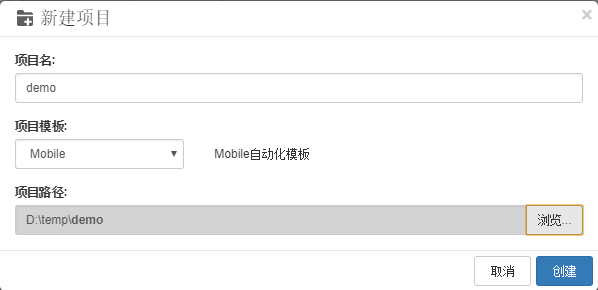
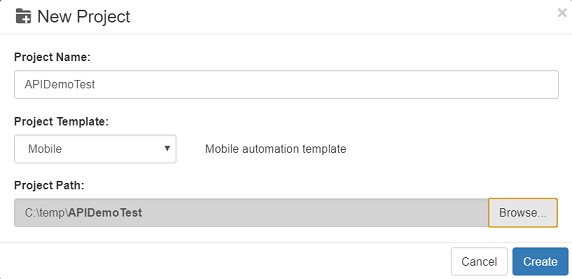
translate

diff --git a/walk/5_android.md b/walk/5_android.md
@@ -1,57 +1,54 @@
 ## Walkthrough: Create Android Automation Test
 
-### 目标
+### Goal
 
-* 掌握如何定位手机应用控件
-* 掌握Android手机自动化测试流程
+* Understand how to locate mobile app controls
+* Master Android mobile phone automated testing process
 
-### 环境
-* 开发环境：Windows，Android 模拟器或手机，appium
-* 被测应用：Appium自带的应用API Demo
+### Prerequisites
+* Dependencies: 
+    * Android SDK
+    * Android phone or emulator
+    * Appium
+* Application Under Test (AUT): API Demo shipped with Appium
 
-### 前提条件
-* 配置Android SDK环境
-* 安装appium
-* 准备Android手机或者模拟器
+### Steps
 
-### 操作步骤
+#### New Project
 
-#### 新建项目
-
-打开CukeTest，【文件】--【新建项目】
-项目模板选择【mobile】，分别输入【项目名】和【项目路径】，点击【创建】。
+Open CukeTest, "File"--"New Project"
+Choose "Mobile", input project name "APIDemoTest" and select project path, then click "Create"。
 
 ![](assets_android/newproject.png)
 
-CukeTest会自动创建一个基于手机端自动化测试脚本模板，在项目目录下执行 `npm install` 安装项目依赖。
+CukeTest will automatically create a automation script project based on mobile template. Please run the `npm install` command to install the project dependencies in the project directory.
 
-#### 准备被测应用
+#### Prepare AUT
 
-测试客户端:[https://github.com/appium/sample-code/tree/master/sample-code/apps/ApiDemos/bin](https://github.com/appium/sample-code/tree/master/sample-code/apps/ApiDemos/bin)
-下载并安装到自己的手机。
+The app to be tested can be downloaded from: [https://github.com/appium/sample-code/tree/master/sample-code/apps/ApiDemos/bin](https://github.com/appium/sample-code/tree/master/sample-code/apps/ApiDemos/bin), try to download it and install on your own mobile device.
 
 
-#### 编辑用例
+#### Create Test Scenarios
 
-打开文件，在【可视】界面中输入如下内容</span></span>
+Open the file and enter the following in the "Visual" interface:
 
 ![](assets_android/feature.png)
 
-对应的【文本】视图内容为：
+The corresponding "text" view content is: 
 
-```javascript
-# language:  zh-CN
-功能: appim demo
-使用CukeTest以BDD的方式来做手机端的自动化测试样例。
- 
-  场景: API Demo 页面跳转
-    假如点击App跳转到App页面
-    当在App页面中点击Action Bar
-    那么页面应该跳转到Action Bar页面,页面中应该包含"Action Bar Mechanics"
+```gherkin
+Feature: appim demo
+Sample for using CukeTest to do BDD's automated test on the mobile phone.
+
+  Scenario: API Demo Page Transition
+    Given If you click on the app to jump to the App page
+    When clicking Action Bar on the App page
+    Then the page should jump to the Action Bar page, which should contain "Action Bar Mechanics"
 ```
 
-#### 完善自动化测试代码
-1. 获取设备串号
+#### Implement Test Automation Code
+
+1. Get device serial number:
 
   ```powershell
   adb devices
@@ -60,32 +57,35 @@ CukeTest会自动创建一个基于手机端自动化测试脚本模板，在项
   Y15QKCPH278J4   device
   ```
   
-2. 获取应用pacakage和启动的activity
-  命令行输入 `adb logcat | findstr START `  手动打开 __Demo API__ 应用，从日志中获取。
+2. Get the app package and start the activity
+  Run command `adb logcat | findstr START `, open __Demo API__ app manually, read the info similiar to the following from the log:
+
   ```basic
-  .....
+
+  ...
   [android.intent.category.LAUNCHER] flg=0x10200000 cmp=io.appium.android.apis/.ApiDemos bnds=[16,640][188,832] (has extras)} from uid
 10013 from pid 1943 on display 0 from pid 1943
-  .....
+  ...
+
   ```
 
-  取到app的package 和 activity 为 io.appium.android.apis/.ApiDemos
+  get the package/activity info, which is io.appium.android.apis/.ApiDemos
 
-3. 修改driver定义代码
+3. Modify driver definition code
 
-  打开 `support\get_driver.js` ,分别修改 `devicesName`,appPackage, appActivity的内容。修改完成后为:
+  Open file `support\get_driver.js`, modify the content of `devicesName`, appPackage, appActivity. the content of it is:
   
   ```javascript
   const webdriverio = require('webdriverio');
 
-  //设置被测应用参数
+  //Set the parameters for testing the application
   let options = {
     desiredCapabilities: {
         platformName: "Android",
-        deviceName: "Y15QKCPH278J4", //设备序列串号 
-        platformVersion: "5.1", //系统平台版本
-        appPackage: "io.appium.android.apis", //package 名字
-        appActivity: ".ApiDemos", //启动activity 名字
+        deviceName: "Y15QKCPH278J4", //Serial#
+        platformVersion: "5.1", //Android version
+        appPackage: "io.appium.android.apis", //package name
+        appActivity: ".ApiDemos", //activity name
         resetKeyboard: true,  
         noReset: true,
         unicodeKeyboard: true
@@ -94,7 +94,7 @@ CukeTest会自动创建一个基于手机端自动化测试脚本模板，在项
     port: 4723
   }
 
-  //根据参数配置创建WebDriverIO实例;
+  //Create a WebDriverIO instance based on the parameter configuration;
   function createDriver() {
     const client = webdriverio.remote(options);
     return client;
@@ -103,17 +103,16 @@ CukeTest会自动创建一个基于手机端自动化测试脚本模板，在项
   exports.driver = createDriver();
   ```
 
-4. 自动化测试代码
-  打开`step_definations\definitions1.js `文件，点击 step 后面的灰色按钮，生成自动化脚本样例。
+4. Test automation code
+  Open `features/feature1.feature` file, click the gray button on each step to generate a sample automation script.
 
   ![](assets_android/script.png)
 
-  使用uiautomatorviewer 工具定位到客户端元素
+  Use the *uiautomatorviewer* tool to navigate to client elements
 
   ![](assets_android/uiautomatorviewer.png)
 
-
-  根据元素定位信息，完成对相关操作的代码实现"step\_definitons/definitoins.js":
+  Implemnt step defintion functions defined in "step\_definitons/definitoins.js":
 
   ```javascript
   const { Given, When, Then } = require('cucumber')
@@ -121,27 +120,27 @@ CukeTest会自动创建一个基于手机端自动化测试脚本模板，在项
   const { driver } = require('../support/get_driver');
   const { $ } = require('webdriverio')
 
-  //// 你的步骤定义 /////
+  //// Your step definition /////
 
-  Given("点击App跳转到App页面", async function () {
-      await driver.click('android=new UiSelector().text("App").index(2)')
+  Given("If you click on the app to jump to the App page", async function () {
+    await driver.click('android=new UiSelector().text("App").index(2)')
   });
 
-  When("在App页面中点击Action Bar", async function () {
-      await driver.click('android=new UiSelector().text("Action Bar").index(0)')
+  When("clicking Action Bar on the App page", async function () {
+      await driver.click('android=new UiSelector().text("Action Bar").index(0)');
   });
 
-  Then("页面应该跳转到Action Bar页面,页面中应该包含{string}", async function (arg1) {
-
-      let texts =  await driver.getText('android=new UiSelector().textStartsWith("Action")')
-      console.log(texts)
-      return assert.ok(texts.includes(text))
-});
+  Then("the page should jump to the Action Bar page, which should contain {string}", async function (arg1) {
+    let texts =  await driver.getText('android=new UiSelector().textStartsWith("Action")');
+    console.log(texts)
+    return assert.ok(texts.includes(text));
+  });
+  
   ```
 
-#### 运行
+#### Run the Project
 
-1. 启动appium
+1. Start Appium
 
   ```basic
   appium
@@ -150,8 +149,9 @@ CukeTest会自动创建一个基于手机端自动化测试脚本模板，在项
   [Appium] Appium REST http interface listener started on 0.0.0.0:4723
   ```
 
-2. 运行项目
-  点击运行项目按钮，可以看到手机自动化运行。
+2. Run the Project
+
+  Click the Run Project button to start the running, and then you should be able to get the following report
 
   ![](assets_android/report.png)
 
